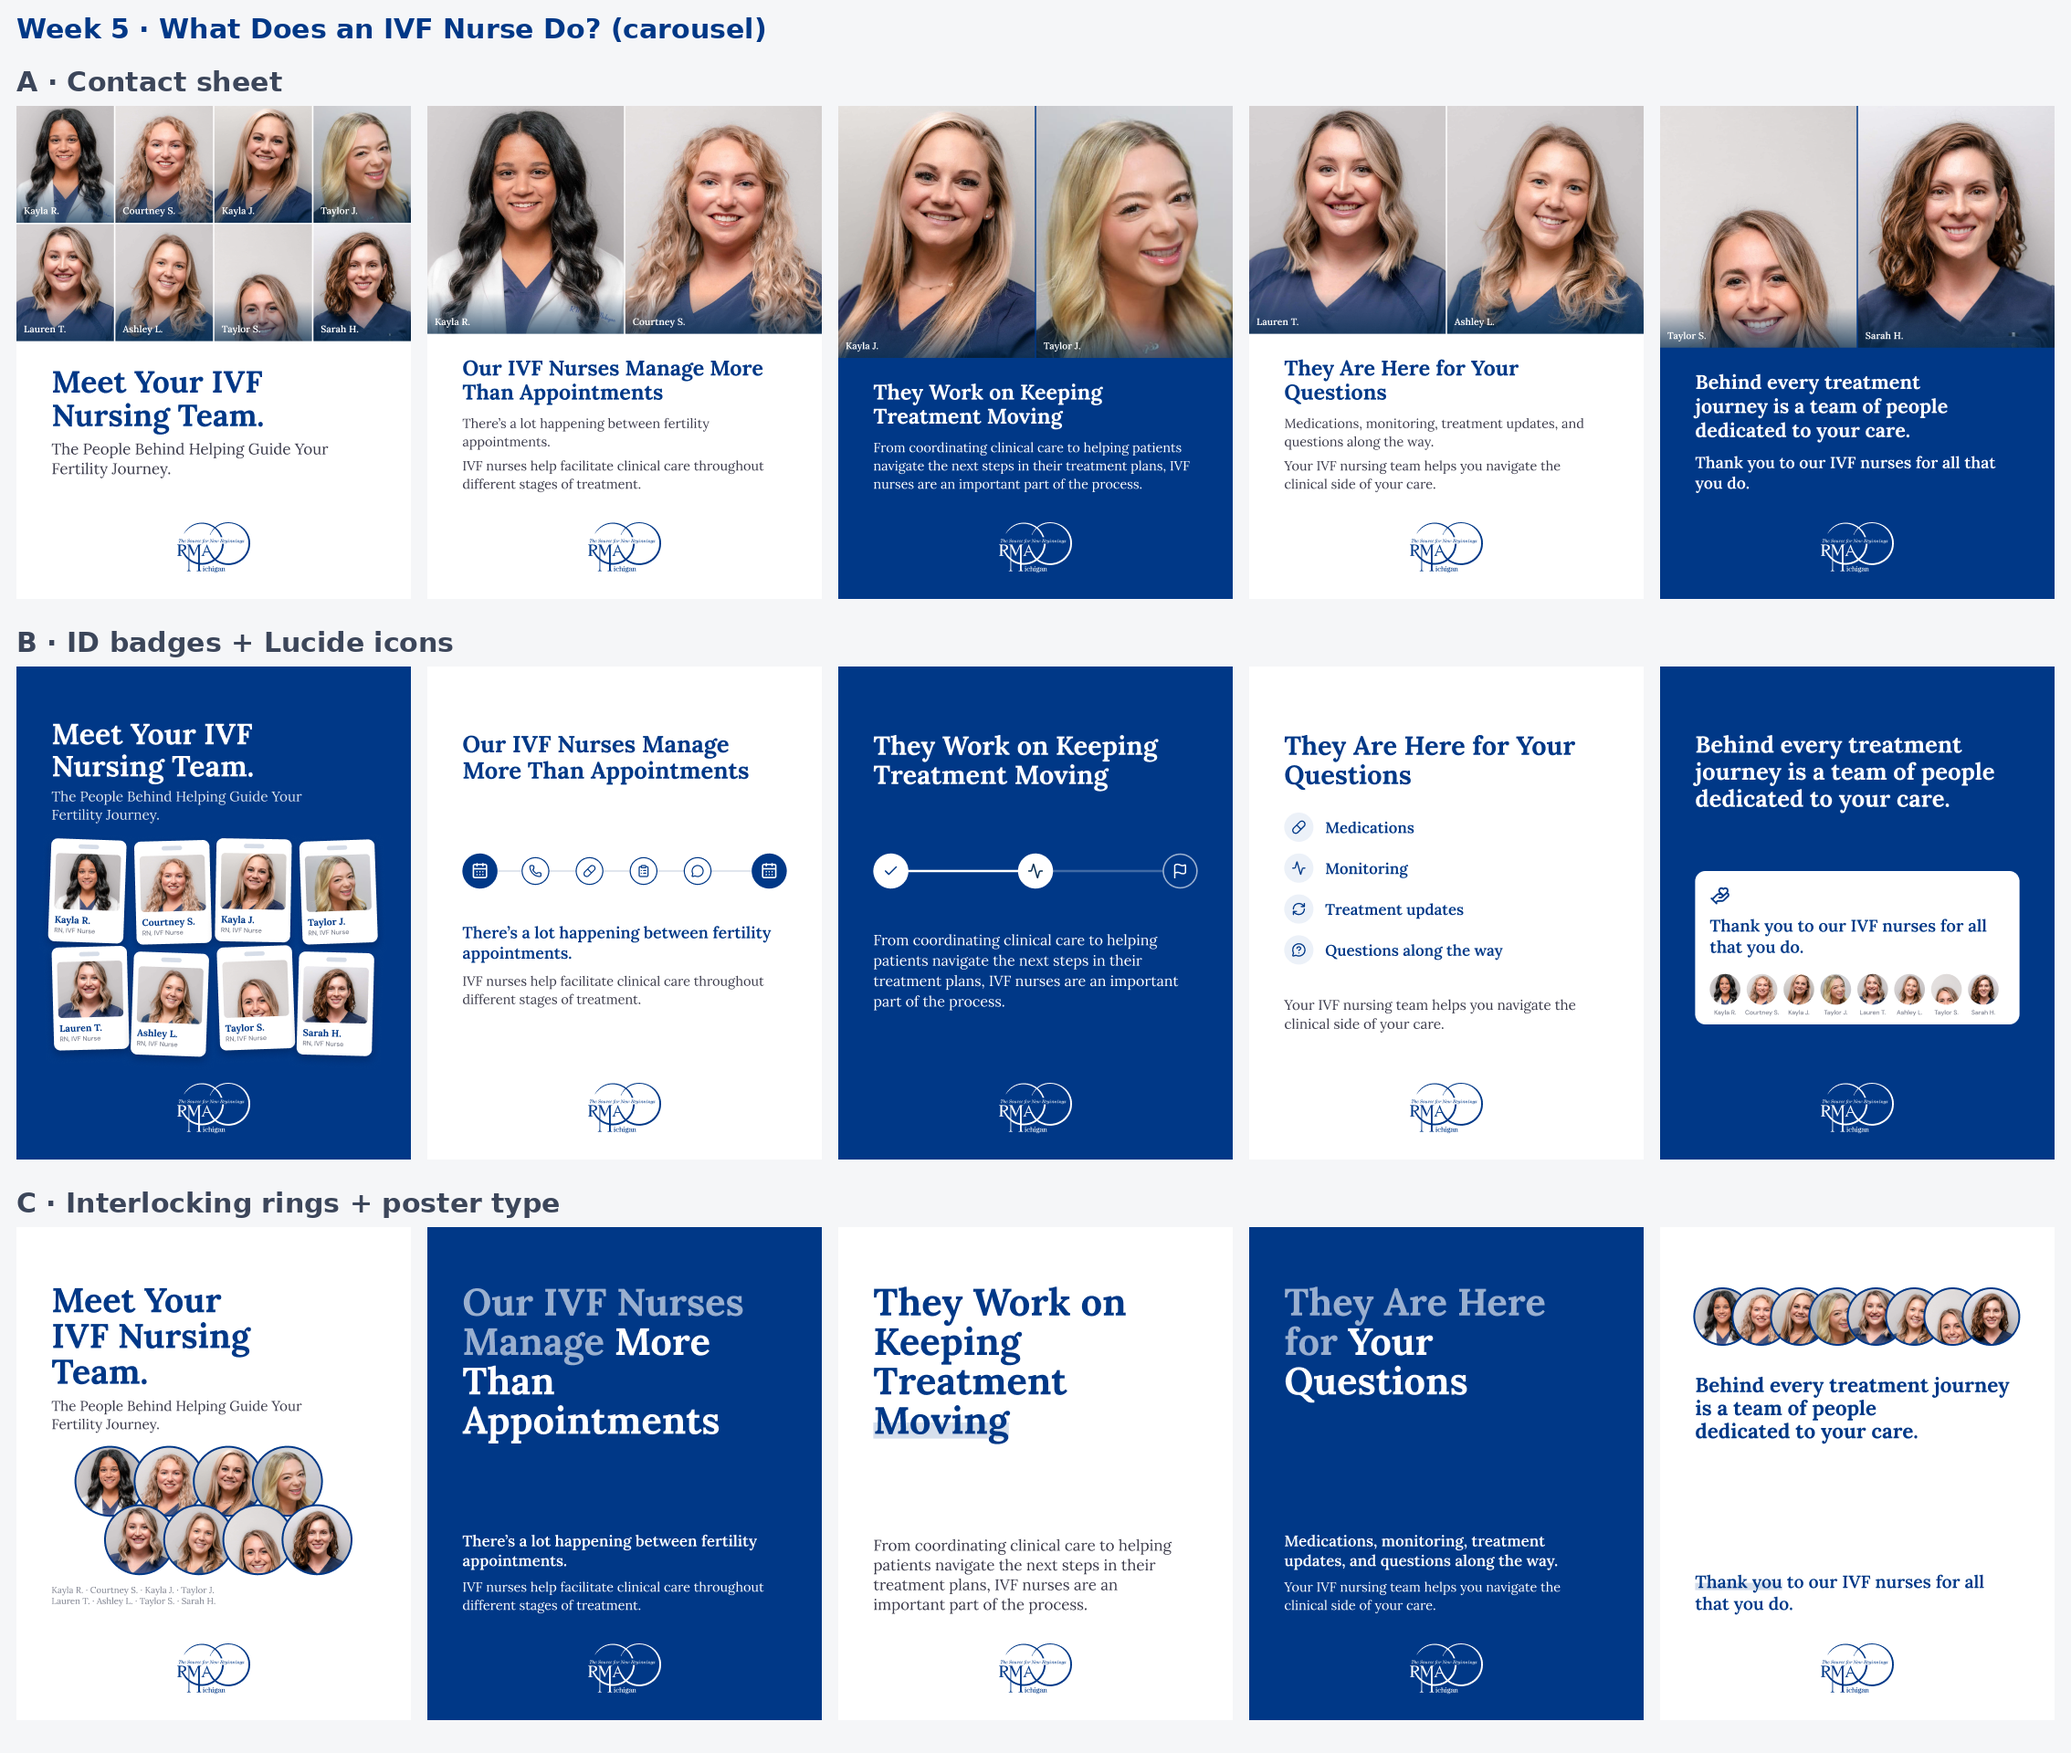
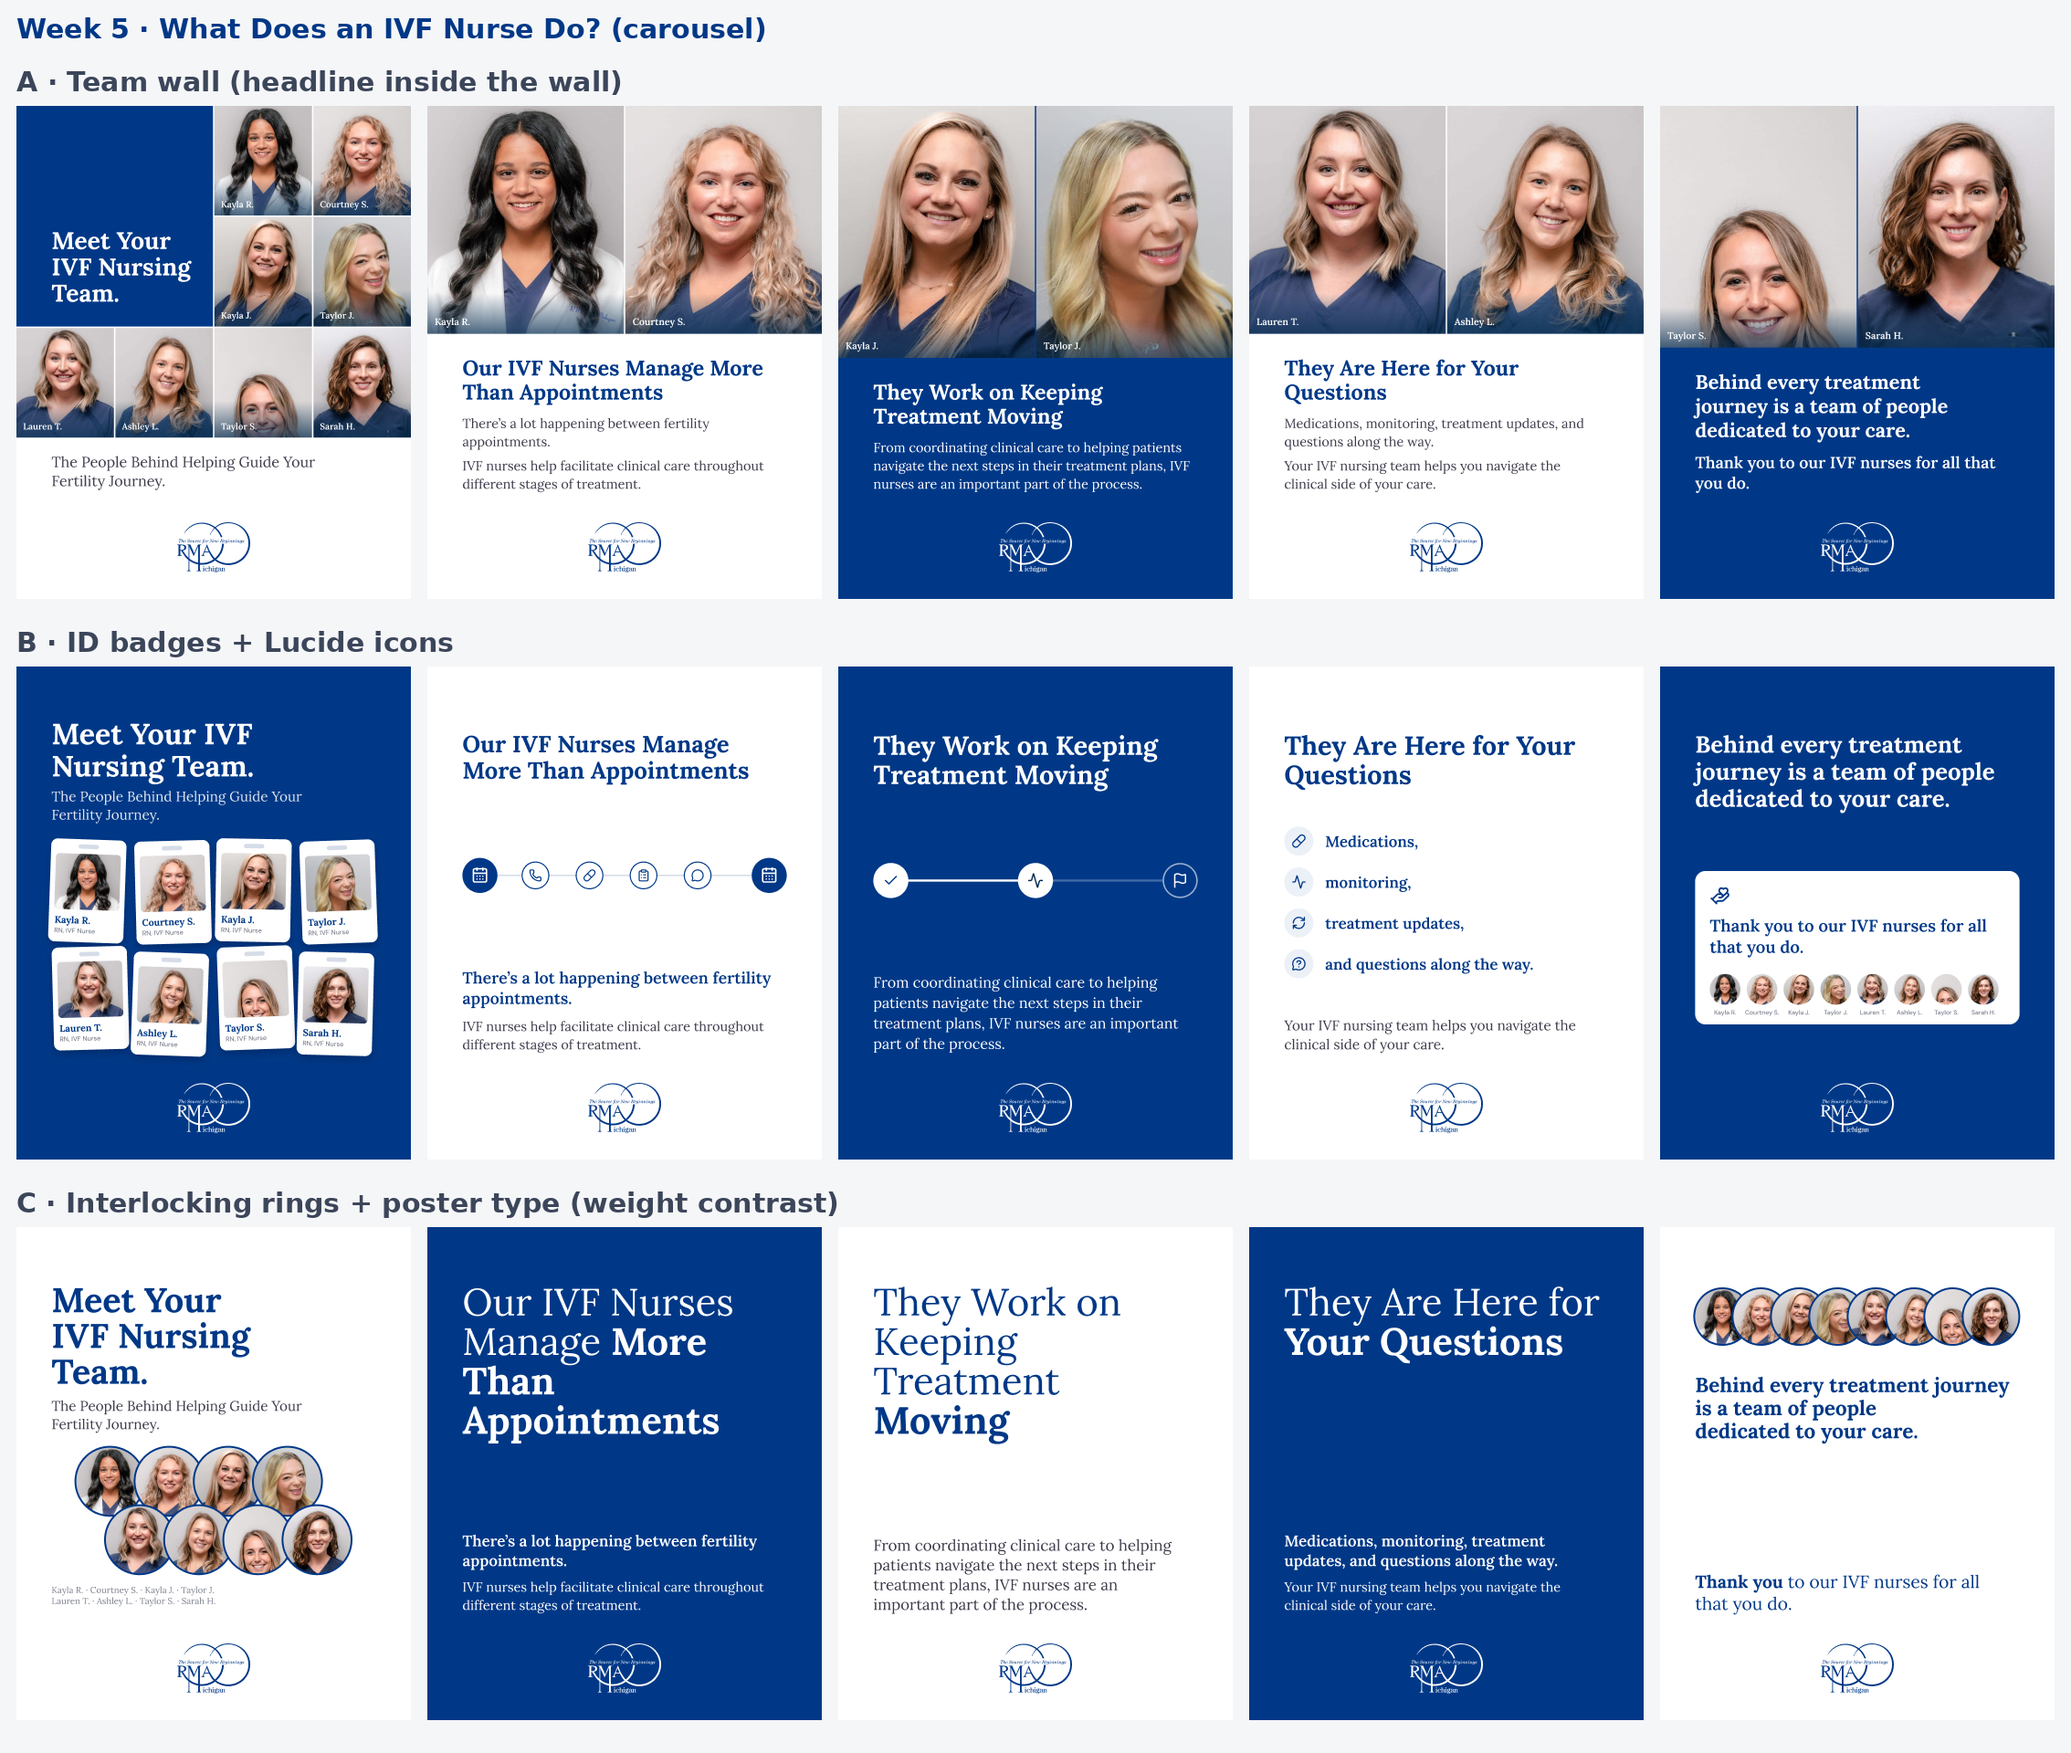
December weeks 5-6: per-version Taste Engine + Impeccable pass
Each of the 12 versions checked with a Taste Engine slop lookup and the
Impeccable critique rules; fixes applied (eyebrow labels, type play, dead
bands, verbatim copy, distinct emphasis devices). Handoff gains a
per-version findings table; previews refreshed.

Claude-Session: https://claude.ai/code/session_016yKrfT8RQFRJPW8Btr4Q9U

diff --git a/rma-michigan-social/handoff-dec-batch.md b/rma-michigan-social/handoff-dec-batch.md
@@ -30,6 +30,32 @@ Previews:
 - `previews/dec-w6-treatment-plan-A-B-C.png`
 - `previews/dec-w6-ask-a-physician-ivf-A-B-C.png`
 
+## Per-version pass: Taste Engine + Impeccable on every version
+
+Each version was checked separately on its render:
+- **Taste Engine:** a `lookup_slop` query describing that version's actual layout.
+- **Impeccable:** the critique rubric, craft floor and layout/typeset rules (squint test,
+  grouping, rhythm, eyebrow ban, one emphasis device).
+
+| Asset · version | Taste Engine (closest slop dimension) | Impeccable finding | Change made |
+| --- | --- | --- | --- |
+| FSA · A | Footer / final impression: the page ends on the logo after the text block. | "New on the blog" (icon + label) sat above the headline as an eyebrow, which the craft floor bans. | The label now closes the text block as a sign-off under the subtitle. |
+| FSA · B | Card treatment: distinction should come from material and hierarchy (no side accent used). | The tag pill above the title was an eyebrow. | The tag moved onto the photo as the blog card's own tag; the title now leads. |
+| FSA · C | Typographic play: a one-word size change is a slop move. | "or" was the only variation, and the label was an eyebrow. | "FSA / or HSA?" are now the same size, with "or" varying by weight and tone (Regular, 60%). The label closes the block. |
+| Nurses · A | Section layouts: a headshot grid with a headline below is a template. | Squint test: the cover read as a staff directory, with the headline second. | The headline is now a navy 2×2 block inside the wall. The inner pairs stay as they are, because the repetition helps people recognise the series. |
+| Nurses · B | Section layouts: a template stack. | Slides 2–4 repeated title → visual → body with a dead band above the logo. Slide 4 had split the brief's sentence into a list. | The body now sits on the bottom line, with the visual centred between title and body. Slide 4 is back to the exact sentence, set over the icon rows. |
+| Nurses · C | Typographic play: tone-only dimming. | It used the same emphasis device as Treatment Plan C. | Switched to weight contrast: the headline in Regular, the key phrase in Bold, at full colour. "Thank you" is Bold on slide 5. |
+| Plan · A | Section layouts / section transitions. | Rhythm holds: full-bleed slides (1, 3, 5) alternate with split slides (2, 4). Slide 3's text had low contrast over the hand. | Stronger fade behind slide 3's text; line breaks fixed on slides 3 and 5. |
+| Plan · B | Section transition: "great" means one continuous element across sections, which this is. | The squint test holds: the headline reads first, the route second. | No structural change. Fixed the line break on the closing slide. |
+| Plan · C | Contrast + typographic play. | It shared the dimmed-word device with Nurses · C, and the emphasis worked on only one dimension. | Scale + tone: a small 60% lead-in line with the key phrase at poster size (split over two lines). Highlighter removed, so each slide has one emphasis device. |
+| Ask · A | Section transition: a hard break between the photo and the navy. | "Ask a Physician" isn't in the graphic text, so it was an added eyebrow. | Label removed. The photo now fades into the navy answer area. |
+| Ask · B | Components: consistent card, distinguished by material. Holds. | The card header continues the November series (it is the note's own header, not an eyebrow). The chips are 5 items, one over the 4-item chunking guide. | No change. The chips are flagged below. |
+| Ask · C | Contrast and single focus hold. | The added series label was an eyebrow. | Label removed. The question leads and "No." dominates. |
+
+Taste Engine's brand-asset extraction (2 credits per image) was not run. It extracts a design
+system rather than critiquing a design. It can be run on each version if you want a measured
+read.
+
 ## Process: Impeccable + Taste Engine (tastelabs)
 
 - **Taste Engine:**
@@ -74,9 +100,9 @@ Previews:
 | Asset | A | B | C |
 | --- | --- | --- | --- |
 | FSA or HSA? (static) | **Photo-led.** A year-end kitchen-table photo (AI) with a navy fade. "FSA or HSA?" is the display line. | **Article page.** The post looks like the blog article itself: a "New on the blog" tag, the title, then the photo. | **Poster type.** "FSA" over "HSA?" at poster scale, with a small "or" between them. |
-| What Does an IVF Nurse Do? (5) | **Contact sheet.** The cover is a wall of all eight nurses. Each inner slide features two nurses (every nurse appears), with the copy below. | **ID badges + Lucide.** The cover lays out the eight nurses as staff badges. Slide 2 shows the steps between two appointments (phone, pill, clipboard, message). Slide 3 is a progress track. Slide 4 lists Medications, Monitoring, Treatment updates and Questions with icons. Slide 5 is a thank-you card signed with the team's faces. | **Interlocking rings.** Portraits overlap like the two rings in the RMA logo, with names listed below. Inner slides are poster type, alternating navy and white. |
-| Your Treatment Plan Can Change (5) | **Photo-led.** A plan drawn in pencil, partly erased and redrawn (AI), cropped differently on each slide. The closing slide is a consultation photo (hands only). | **The route.** One line runs across all five slides. A dashed line is the plan as first written; the navy line is the path as it changes: new information bends it, the body detours it, and the goal moves. On the last slide the care team's line joins and runs alongside. | **Poster type.** One statement per slide, with the key phrase emphasised and placement alternating between top and bottom. |
-| Ask a Physician: Is IVF the only fertility treatment? | **Photo-led.** The question over a consultation photo, with the answer on navy below. | **Note card.** Continues the November Ask a Physician note-card look you picked: the question, "No.", then the options. | **Poster type.** A giant "No." |
+| What Does an IVF Nurse Do? (5) | **Team wall.** The cover is a wall of all eight nurses, with the headline as a navy block inside it. Each inner slide features two nurses (every nurse appears), with the copy below. | **ID badges + Lucide.** The cover lays out the eight nurses as staff badges. Slide 2 shows the steps between two appointments (phone, pill, clipboard, message). Slide 3 is a progress track. Slide 4 is the brief's sentence set over four icon rows. Slide 5 is a thank-you card signed with the team's faces. | **Interlocking rings.** Portraits overlap like the two rings in the RMA logo, with names listed below. Inner slides are poster type with weight contrast (Regular headline, Bold key phrase), alternating navy and white. |
+| Your Treatment Plan Can Change (5) | **Photo-led.** A plan drawn in pencil, partly erased and redrawn (AI), cropped differently on each slide. The closing slide is a consultation photo (hands only). | **The route.** One line runs across all five slides. A dashed line is the plan as first written; the navy line is the path as it changes: new information bends it, the body detours it, and the goal moves. On the last slide the care team's line joins and runs alongside. | **Poster type, scale + tone.** A small lead-in line, then the key phrase at poster size. Placement alternates between top and bottom. |
+| Ask a Physician: Is IVF the only fertility treatment? | **Photo-led.** The question over a consultation photo, which fades into the navy answer area. | **Note card.** Continues the November Ask a Physician note-card look you picked: the question, "No.", then the options. The series name stays in the card header. | **Poster type.** A giant "No." |
 
 ## Flags for the client / account team
 
@@ -92,19 +118,22 @@ Previews:
    - They are set as equals so IVF reads as one option, which follows the brief's sensitivity
      note.
    - Remove them if only the graphic text should appear.
-5. **FSA / HSA.** No dates or deadlines are shown on the graphic, because rules and deadlines vary
+5. **Series label.** "Ask a Physician" is not in the brief's graphic text. It now appears only in
+   version B's card header, matching the November series. Add it back to A and C if RMA wants
+   the series named on every version.
+6. **FSA / HSA.** No dates or deadlines are shown on the graphic, because rules and deadlines vary
    by plan.
-6. **AI photography:**
+7. **AI photography:**
    - FSA desk scene.
    - Pencil plan.
    - Consultation (hands only; an earlier take with a blurred face was discarded).
-7. **On hold, per the brief:** Giving Tuesday (resource not chosen yet) and Universal Health
+8. **On hold, per the brief:** Giving Tuesday (resource not chosen yet) and Universal Health
    Coverage Day (direction not confirmed). Placeholders hold the brief's graphic text.
-8. **Coming next, and what it needs:**
+9. **Coming next, and what it needs:**
    - Embryology: one confirmed RMA-specific detail.
    - Holiday Cheer: a team or office photo. A branded fallback can be designed without one.
    - Holiday office hours: confirmed hours and after-hours instructions. Until then the layout
      will use clearly marked placeholder hours.
-9. **Build kit.** A temporary text layer named "zz build kit (temporary, safe to delete)" sits on
+10. **Build kit.** A temporary text layer named "zz build kit (temporary, safe to delete)" sits on
    the Misc. page. It holds reusable layout code for the rest of December and will be removed
    when the batch is done.
